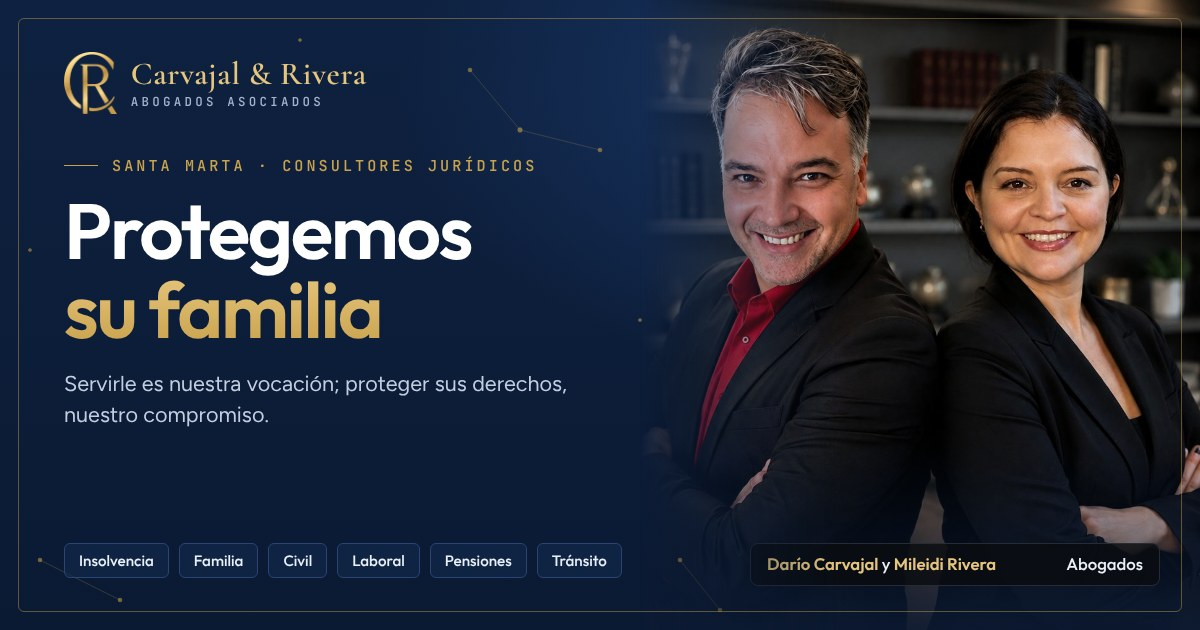
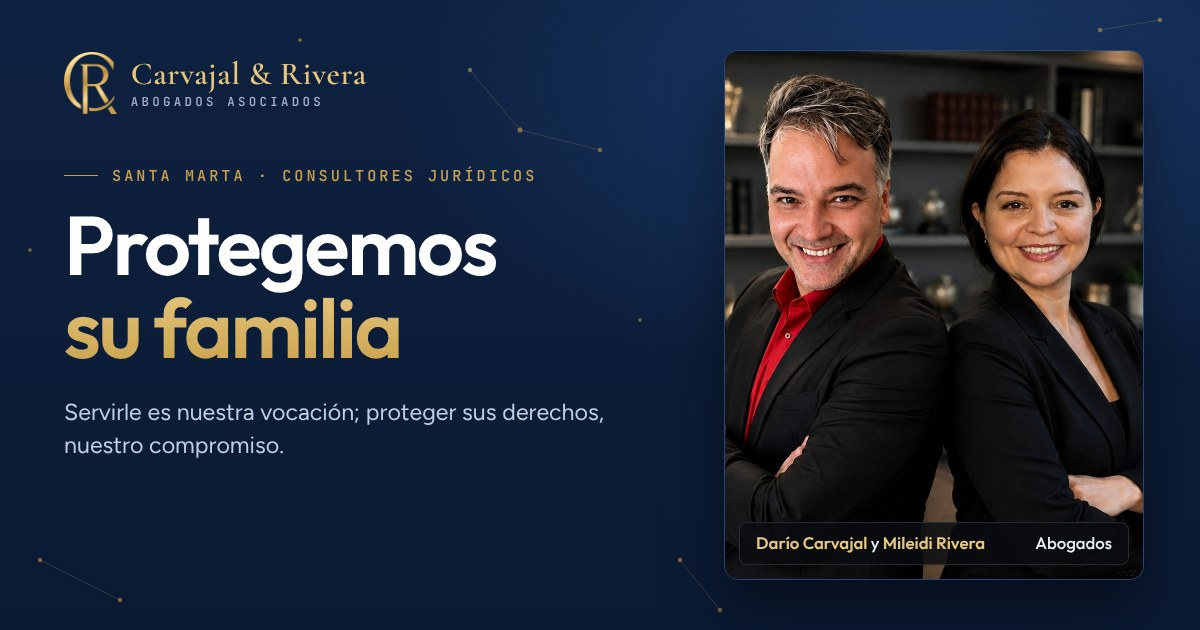
Imagen para compartir: cambiar a la opción 1 (foto en recuadro)
Claude-Session: https://claude.ai/code/session_01SNYUpYw64iGMshTFN7WVLV

diff --git a/index.html b/index.html
@@ -11,14 +11,14 @@
 <meta content="https://dcgestionjuridica.github.io/carvajal-rivera-web/" property="og:url"/>
 <meta content="Carvajal &amp; Rivera Abogados Asociados" property="og:site_name"/>
 <meta content="es_CO" property="og:locale"/>
-<meta content="https://dcgestionjuridica.github.io/carvajal-rivera-web/img/compartir.jpg?v=2" property="og:image"/>
-<meta content="https://dcgestionjuridica.github.io/carvajal-rivera-web/img/compartir.jpg?v=2" property="og:image:secure_url"/>
+<meta content="https://dcgestionjuridica.github.io/carvajal-rivera-web/img/compartir.jpg?v=3" property="og:image"/>
+<meta content="https://dcgestionjuridica.github.io/carvajal-rivera-web/img/compartir.jpg?v=3" property="og:image:secure_url"/>
 <meta content="image/jpeg" property="og:image:type"/>
 <meta content="1200" property="og:image:width"/>
 <meta content="630" property="og:image:height"/>
 <meta content="Carvajal &amp; Rivera Abogados Asociados, Santa Marta" property="og:image:alt"/>
 <meta content="summary_large_image" name="twitter:card"/>
-<meta content="https://dcgestionjuridica.github.io/carvajal-rivera-web/img/compartir.jpg?v=2" name="twitter:image"/>
+<meta content="https://dcgestionjuridica.github.io/carvajal-rivera-web/img/compartir.jpg?v=3" name="twitter:image"/>
 <meta content="#0e2140" name="theme-color"/>
 <link href="favicon.ico" rel="icon" sizes="any"/>
 <link href="img/icono-32.png" rel="icon" sizes="32x32" type="image/png"/>
